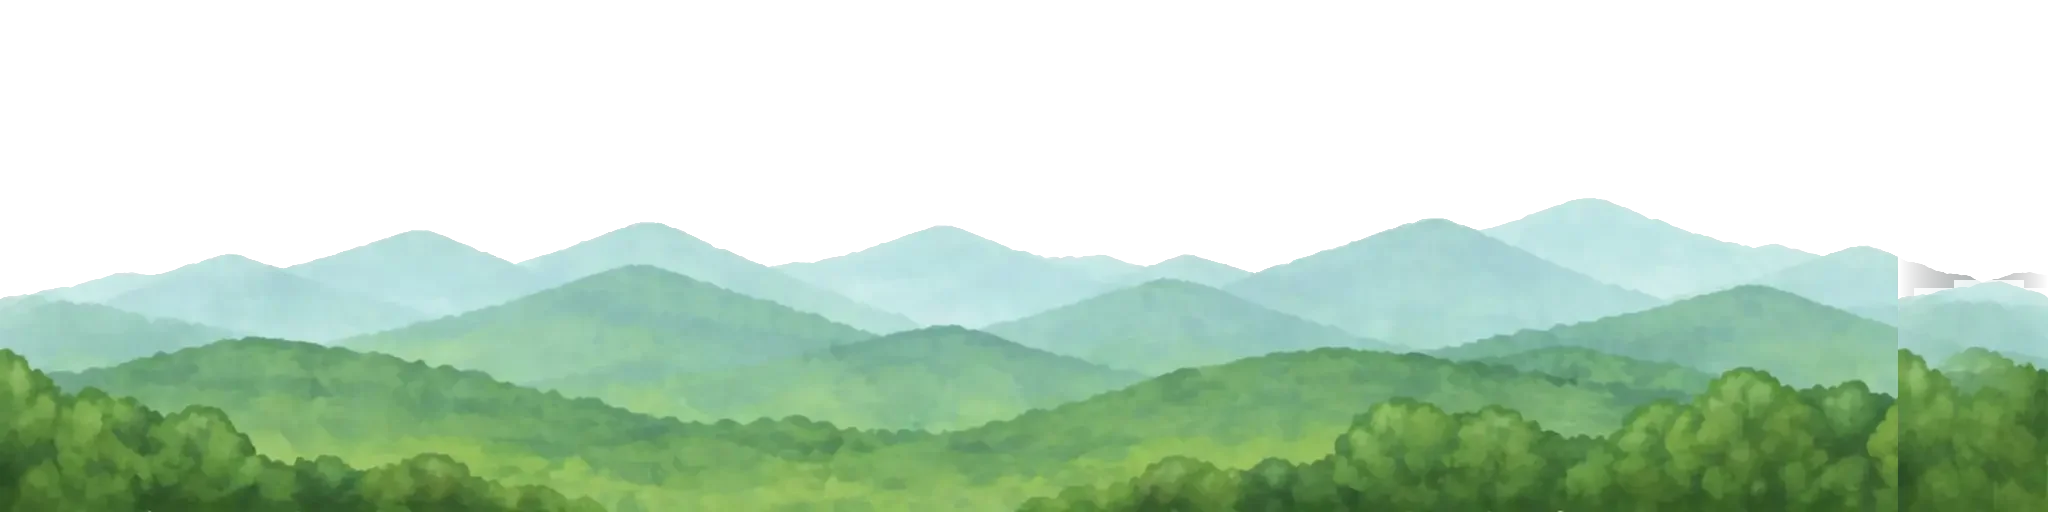
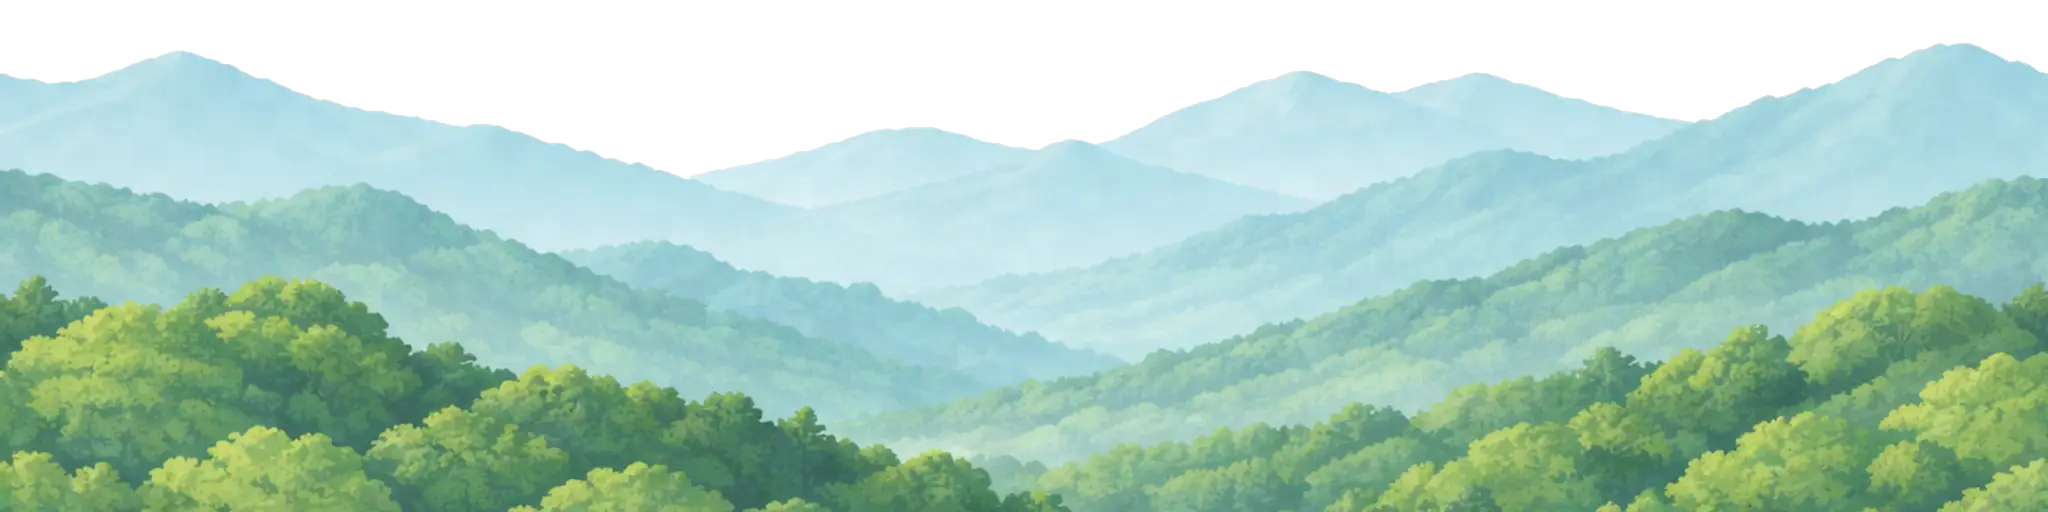
Add 3D clouds, dashed level lines, remove finish gate, tune parallax layers
- 3D cloud models (Cloud.glb) scattered in sky per segment
- Removed finish gate visuals, replaced with dashed white line at level boundary
- Cannon positioned right after level boundary line
- Parallax layer heights and positions tuned for better visibility
- Mirrored every other segment for seamless background tiling
- Updated forest background images with proper transparency
- Updated background prompt guidelines

diff --git a/bounceblob.jsx b/bounceblob.jsx
@@ -1005,6 +1005,17 @@ function createPlayer() {
   return group;
 }
 
+// ─── Cloud model cache ───
+let cloudModel = null;
+function preloadCloudModel() {
+  return new Promise(resolve => {
+    gltfLoader.load('assets/Cloud.glb', (gltf) => {
+      cloudModel = gltf.scene;
+      resolve();
+    }, undefined, () => { resolve(); });
+  });
+}
+
 // ─── Background image cache ───
 const bgImageCache = {};
 const WORLD_NAMES = ['forest', 'desert', 'night', 'winter', 'volcano', 'space'];
@@ -1568,8 +1579,8 @@ function buildParallaxSegment(group, offsetX, segLen, theme, bgI, segIdx) {
   const layers = ['sky', 'far', 'mid', 'near'];
   //                    sky   far   mid   near
   const zPositions = [ -18,  -14,  -10,   -5];
-  const heights =    [  40,   20,   16,    8];
-  const yOffsets =   [   0,  4.0,  -1.0, -4.0]; // vertical center of each plane
+  const heights =    [  40,   14,   10,    6];
+  const yOffsets =   [  -3,  2.0,   0.0, -3.0]; // vertical center of each plane
   const flipX = (segIdx % 2 === 1); // mirror every other segment for seamless tiling
 
   layers.forEach((layer, i) => {
@@ -1603,6 +1614,32 @@ function buildParallaxSegment(group, offsetX, segLen, theme, bgI, segIdx) {
     plane.frustumCulled = false;
     group.add(plane);
   });
+
+  // 3D Clouds
+  if (cloudModel && bgI !== 2 && bgI !== 5) { // no clouds for night/space
+    const cloudCount = 8 + Math.floor(Math.random() * 5);
+    for (let ci = 0; ci < cloudCount; ci++) {
+      const cloud = cloudModel.clone();
+      const scale = 0.003 + Math.random() * 0.012;
+      cloud.scale.set(scale, scale * (0.6 + Math.random() * 0.4), scale);
+      cloud.position.set(
+        offsetX + Math.random() * segLen,
+        2.5 + Math.random() * 4,  // upper part of screen
+        -11 - Math.random() * 6  // spread across depth
+      );
+      cloud.rotation.y = 0; // flat side facing player (camera along -Z)
+      // Make clouds semi-transparent white
+      cloud.traverse(c => {
+        if (c.isMesh) {
+          c.material = new THREE.MeshBasicMaterial({
+            color: 0xFFFFFF, transparent: true, opacity: 0.7 + Math.random() * 0.2,
+            depthWrite: false
+          });
+        }
+      });
+      group.add(cloud);
+    }
+  }
 
   // Atmospheric particles
   const particleCount = 25;
@@ -1707,7 +1744,7 @@ function buildWorld(scene, existingGroup) {
     const cannonAsset = getAsset(GAME_ASSETS.cannon.name, GAME_ASSETS.cannon.color);
     if (cannonAsset) {
       cannonAsset.scale.setScalar(0.35);
-      cannonAsset.position.set(offset + 1, Y_MIN, 0);
+      cannonAsset.position.set(offset - LEVEL_GAP + 1, Y_MIN, 0);
       cannonAsset.rotation.set(0.01, 1.56, 0.01);
       cannonAsset.traverse(child => {
         if (child.name && child.name.includes('barrel')) {
@@ -1828,39 +1865,23 @@ function buildWorld(scene, existingGroup) {
       }
       else if (el.t === 'finish') {
         const isLast = lvlIdx === LEVELS.length - 1;
-
         if (isLast) {
-          const asset = getAsset(GAME_ASSETS.finish.name, GAME_ASSETS.finish.color);
-          if (fitAsset(asset, 3, 9, 1, ex, 0, 0)) {
-            group.add(asset);
-          } else {
-            const archLeft = new THREE.Mesh(new THREE.CylinderGeometry(0.15, 0.15, 10, 8), mat(PAL.finish, 0x004D40));
-            archLeft.position.set(ex - 1.2, 0, 0);
-            group.add(archLeft);
-            const archRight = archLeft.clone();
-            archRight.position.set(ex + 1.2, 0, 0);
-            group.add(archRight);
-            const archTop = new THREE.Mesh(new THREE.BoxGeometry(3, 0.3, 0.5), mat(PAL.finish, 0x004D40));
-            archTop.position.set(ex, 4.5, 0);
-            group.add(archTop);
-          }
           colliders.push({ type: 'finish', x: ex });
         }
-        if (!isLast) {
-          const cpAsset = getAsset(GAME_ASSETS.finish.name, GAME_ASSETS.finish.color);
-          if (fitAsset(cpAsset, 2, 6, 0.5, ex, 0, 0)) {
-            cpAsset.traverse(c => { if (c.isMesh) { c.material.transparent = true; c.material.opacity = 0.5; } });
-            group.add(cpAsset);
-          } else {
-            const cpLeft = new THREE.Mesh(
-              new THREE.CylinderGeometry(0.08, 0.08, 10, 6),
-              new THREE.MeshPhongMaterial({ color: PAL.finish, transparent: true, opacity: 0.4 })
+        // Dashed line at level boundary
+        const dashCount = 12;
+        const dashHeight = (Y_MAX - Y_MIN) / dashCount;
+        const dashMat = new THREE.MeshBasicMaterial({
+          color: 0xFFFFFF, transparent: true, opacity: 0.3
+        });
+        for (let di = 0; di < dashCount; di++) {
+          if (di % 2 === 0) {
+            const dash = new THREE.Mesh(
+              new THREE.BoxGeometry(0.08, dashHeight * 0.7, 0.08),
+              dashMat
             );
-            cpLeft.position.set(ex - 0.8, 0, 0);
-            group.add(cpLeft);
-            const cpRight = cpLeft.clone();
-            cpRight.position.set(ex + 0.8, 0, 0);
-            group.add(cpRight);
+            dash.position.set(ex, Y_MIN + dashHeight * (di + 0.5), 0.5);
+            group.add(dash);
           }
         }
       }
@@ -2490,7 +2511,7 @@ export default function BounceBlob() {
     let collectibles = [];
 
     // Preload KayKit assets, then rebuild world with real models
-    Promise.all([preloadGameAssets(), preloadBackgroundImages()]).then(() => {
+    Promise.all([preloadGameAssets(), preloadBackgroundImages(), preloadCloudModel()]).then(() => {
       const g = gameRef.current;
       g.needsWorldBuild = true;
     });
@@ -2829,7 +2850,7 @@ export default function BounceBlob() {
       if (g.state === 'launching') {
         g.launchTimer += dt;
         const lvlIdx = g.currentLevel;
-        const cannonX = LEVEL_OFFSETS[lvlIdx] + 1;
+        const cannonX = LEVEL_OFFSETS[lvlIdx] - LEVEL_GAP + 1;
         const cannonTipX = cannonX + 1;
         const cannonTipY = Y_MIN + 1.8;
         // Emit smoke from cannon barrel at start
